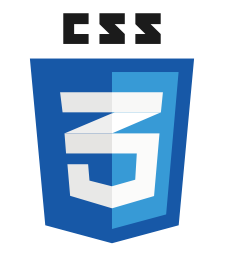
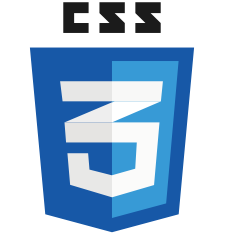
adding shadows and testing margins

diff --git a/style.css b/style.css
@@ -143,7 +143,7 @@ footer p {
 .item {
   flex: 1;
   margin: 0;
-  padding: 20px;
+  padding: 0px;
 }
 
 .item-double {
@@ -262,6 +262,16 @@ section.skills div.logo-container figure.figure-skills {
   width: 45%;
 }
 
+figcaption {
+  color: #fff;
+  font-weight: bold;
+  font-size: 120%;
+  text-shadow: 2px 3px 8px #000000;
+}
+
+img.logo {
+  filter: drop-shadow(0.35rem 0.35rem 0.4rem rgba(0, 0, 0, 0.5));
+}
 
 section.projects {
   display: block;
@@ -292,11 +302,10 @@ section.projects div.project-container div.project-column {
   margin-bottom: 1rem;
   vertical-align: top;
   padding-left: 20px;
-  
 }
-section.projects img{
+section.projects img {
   border-radius: 10px;
-} 
+}
 
 section.projects div.project-container div.project-column img {
   width: 100%;
@@ -311,11 +320,7 @@ section.projects div.project-container div.project-column ul.project-skills {
   font-size: 90%;
 }
 
-section.projects
-  div.project-container
-  div.project-column
-  ul.project-skills
-  li {
+section.projects div.project-container div.project-column ul.project-skills li {
   display: inline-block;
   width: auto;
   padding: 5px 10px;
@@ -323,7 +328,7 @@ section.projects
   border: 2px solid rgb(0, 0, 0);
   border-radius: 4px;
   color: rgb(255, 255, 255);
-  font-weight: bold;  
+  font-weight: bold;
 }
 
 section.projects div.project-container div.project-column ul.project-buttons {
@@ -438,6 +443,12 @@ section.project div.project-container .fas {
     overflow: hidden;
   }
 
+  .item {
+    flex: 1;
+    margin: 0;
+    padding: 20px;
+  }
+
   .centeredText {
     text-align: center;
     position: absolute;
@@ -462,16 +473,15 @@ section.project div.project-container .fas {
     position: relative;
   }
 
-  section.skills div.logo-container figure.figure-skills { 
-    width: 18%; 
+  section.skills div.logo-container figure.figure-skills {
+    width: 18%;
   }
 
   section.skills div.logo-container figure.figure-skills img {
     width: 100%;
   }
 
-  section.projects div.project-container { 
+  section.projects div.project-container {
     flex-direction: row;
   }
-
 }

diff --git a/index.html b/index.html
@@ -28,6 +28,7 @@
             <ul id="menu">
                <li class="show-web-only"><a href="#home">Home</a></li>
                <li class="show-web-only"><a href="#about">About</a></li>
+               <li class="show-web-only"><a href="#skills">Skills</a></li>
                <li class="show-web-only"><a href="#projects">Projects</a></li>
                <li class="show-web-only"><a href="#contact">Contact</a></li>
                <li class="show-print-only">
